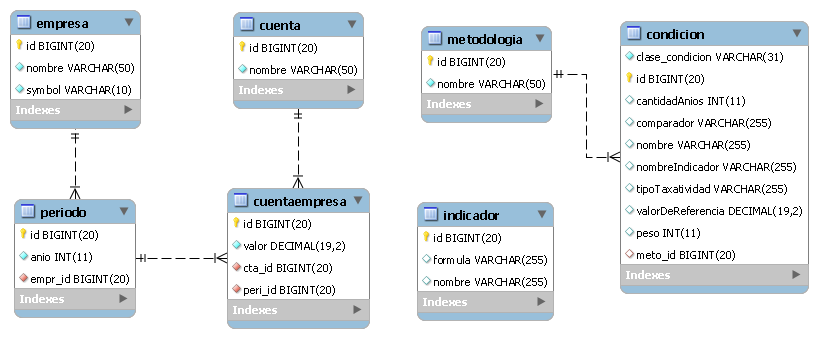
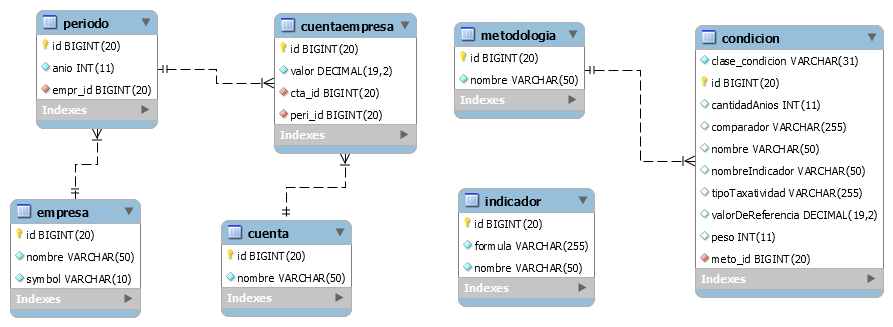
Detalles de BD

diff --git a/src/main/java/model/condiciones/CondicionConfigurable.java b/src/main/java/model/condiciones/CondicionConfigurable.java
@@ -2,6 +2,7 @@ package model.condiciones;
 
 import java.util.List;
 
+import javax.persistence.Column;
 import javax.persistence.Convert;
 import javax.persistence.Entity;
 
@@ -15,10 +16,12 @@ import model.repositories.RepoIndicadores;
 @Entity
 public abstract class CondicionConfigurable extends Condicion {
 
+	@Column(length = 50)
 	protected String nombre = "";
 
 	@Convert(converter = ComparadorConverter.class)
 	protected Comparador comparador;
+	@Column(length = 50)
 	protected String nombreIndicador;
 	protected Integer cantidadAnios;
 

diff --git a/src/main/java/model/Indicador.java b/src/main/java/model/Indicador.java
@@ -2,6 +2,7 @@ package model;
 
 import java.math.BigDecimal;
 
+import javax.persistence.Column;
 import javax.persistence.Entity;
 import javax.persistence.GeneratedValue;
 import javax.persistence.Id;
@@ -26,7 +27,9 @@ public class Indicador {
 	@GeneratedValue
 	private long id;
 	
+	@Column(length = 50, unique = true, nullable=false)
 	private String nombre = "";
+	@Column(nullable=false)
 	private String formula = "";
 	
 	@Transient

diff --git a/src/main/java/model/repositories/RepoBD.java b/src/main/java/model/repositories/RepoBD.java
@@ -29,6 +29,10 @@ public abstract class RepoBD<T> implements Repositorio<T> {
 		elementos.forEach(_elemento -> entityManager.persist(_elemento));
 		tx.commit();
 	}
+	
+	public T get(long id){
+		return entityManager.find(this.getEntityClass(), id);
+	}
 
 	public T buscarElemento(T elemento) {
 		Class<T> entityClass = this.getEntityClass();

diff --git a/src/main/java/model/Metodologia.java b/src/main/java/model/Metodologia.java
@@ -31,7 +31,7 @@ public class Metodologia {
 	private String nombre = "";
 
 	@OneToMany(fetch = FetchType.LAZY, cascade = CascadeType.PERSIST)
-	@JoinColumn(name = "meto_id")
+	@JoinColumn(name = "meto_id", nullable = false)
 	private List<Condicion> condiciones = new LinkedList<>();
 	
 	public Metodologia() {
